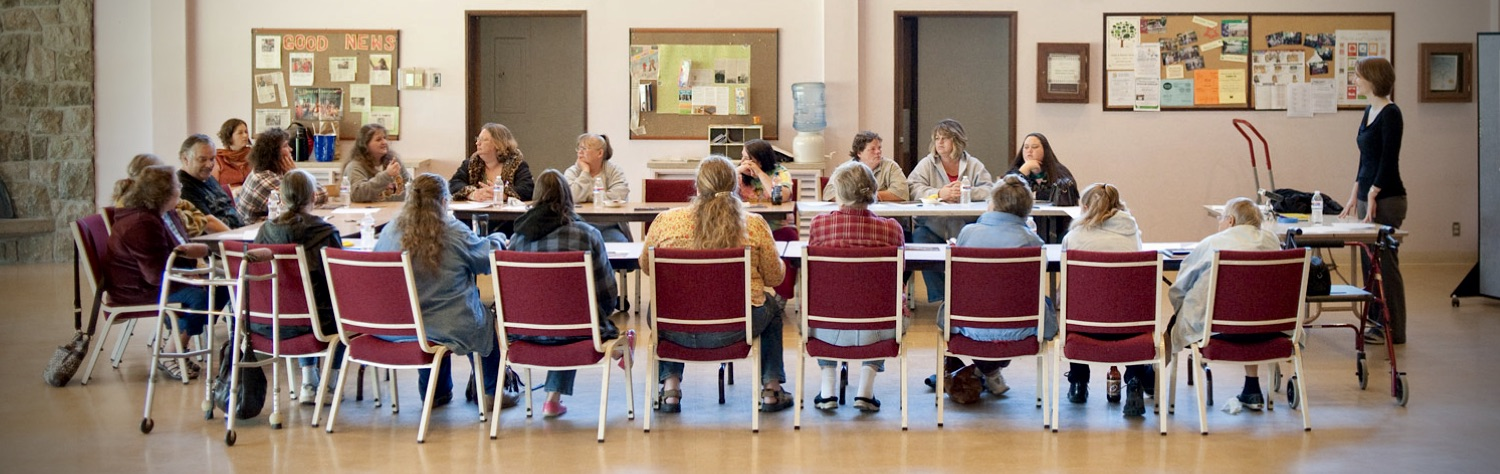
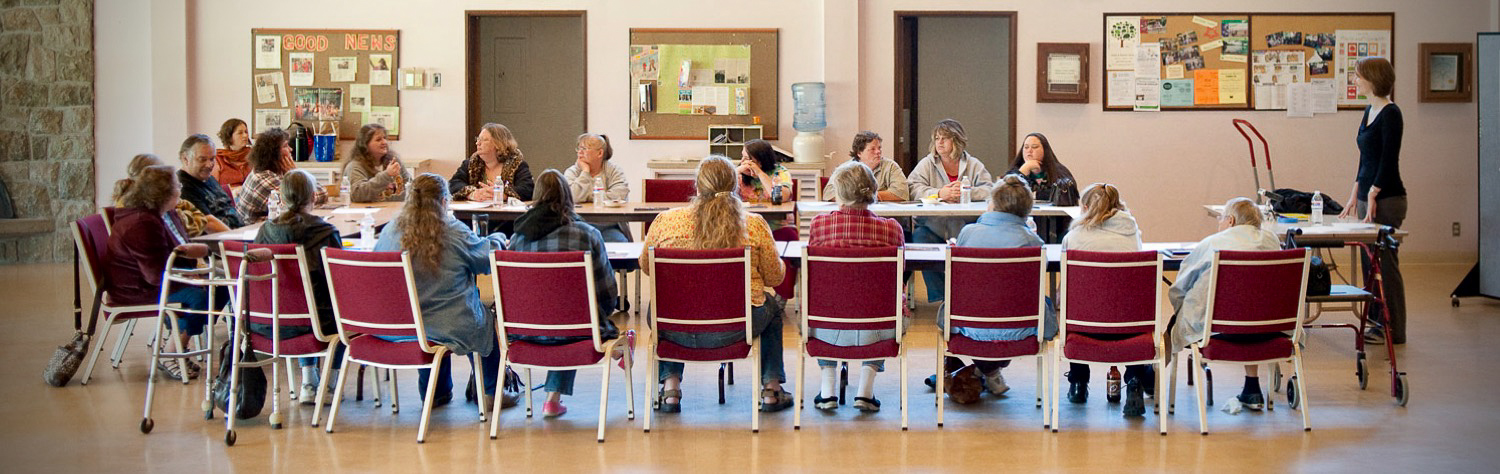
batch reduced image sizes to improve performance

diff --git a/index.html b/index.html
@@ -86,28 +86,28 @@
                 <div class="projects-text">
                     <p>A full stack application built using VueJS on the front end and Node/Express on the back end with a PostgreSQL database, deployed using Heroku. A tool for teachers to create custom jeopardy boards for in-class use. Teachers can create their own custom prompts or search through a database of over 300k actual Jeopardy questions that was scraped from the web.</p>
                 </div>
-                <img src="assets/jeopardy-board.png" alt="Jeopardy for Teachers game board" class="profile">
-                <img src="assets/jeopardy-database-search.png" alt="Jeopardy for Teachers clue database search page" class="profile">
+                <img src="assets/jeopardy-board.jpg" alt="Jeopardy for Teachers game board" class="profile">
+                <img src="assets/jeopardy-database-search.jpg" alt="Jeopardy for Teachers clue database search page" class="profile">
                 
                 <h3>DogMatch.com</h3>
                 <div class="projects-text">
                     <p>A full stack application built using VueJS on the front end and Node/Express on the back end with a MongoDB database, custom middleware, and an outside API. TDD development using Jest. A tool for people to post dogs they have available or find their next dog best friend. Allows for filtering based on many criteria including breed, gender, health, personality attributes, and more.</p>
                 </div>
-                <img src="assets/dogmatch.png" alt="Search page of DogMatch.com website" class="profile">
+                <img src="assets/dogmatch.jpg" alt="Search page of DogMatch.com website" class="profile">
                 
                 <h3>Lewis In Space</h3>
                 <div class="projects-text">
                     <p>A front end application build using VueJS. A game in which Lewis the dog faces slime pirates, an asteroid, and a wampa on his journey home to planet Alchemy. He faces consequences for all of his choices along the way.</p>
                 </div>
-                <img src="assets/star-wars-scroll.png" alt="Star Wars game intro scroll page" class="profile">
-                <img src="assets/choose-your-ship.png" alt="Choose your spaceship game page" class="profile">
-                <img src="assets/choose-your-direction.png" alt="Choose your direction game page" class="profile">
-                <img src="assets/slime-pirates.png" alt="Slime Pirate encounter game page" class="profile">
-                <img src="assets/ice-moon.png" alt="Ice Moon encounter game page" class="profile">
-                <img src="assets/furtuna9.png" alt="Asteriod encounter game page" class="profile">
-                <img src="assets/dog-poker.png" alt="Dog poker gambling page" class="profile">
-                <img src="assets/mirror.png" alt="Look in the mirror game page" class="profile">
-                <img src="assets/ending.png" alt="Dark side game ending page" class="profile">
+                <img src="assets/star-wars-scroll.jpg" alt="Star Wars game intro scroll page" class="profile">
+                <img src="assets/choose-your-ship.jpg" alt="Choose your spaceship game page" class="profile">
+                <img src="assets/choose-your-direction.jpg" alt="Choose your direction game page" class="profile">
+                <img src="assets/slime-pirates.jpg" alt="Slime Pirate encounter game page" class="profile">
+                <img src="assets/ice-moon.jpg" alt="Ice Moon encounter game page" class="profile">
+                <img src="assets/furtuna9.jpg" alt="Asteriod encounter game page" class="profile">
+                <img src="assets/dog-poker.jpg" alt="Dog poker gambling page" class="profile">
+                <img src="assets/mirror.jpg" alt="Look in the mirror game page" class="profile">
+                <img src="assets/ending.jpg" alt="Dark side game ending page" class="profile">
             </div>
         </div>
 
